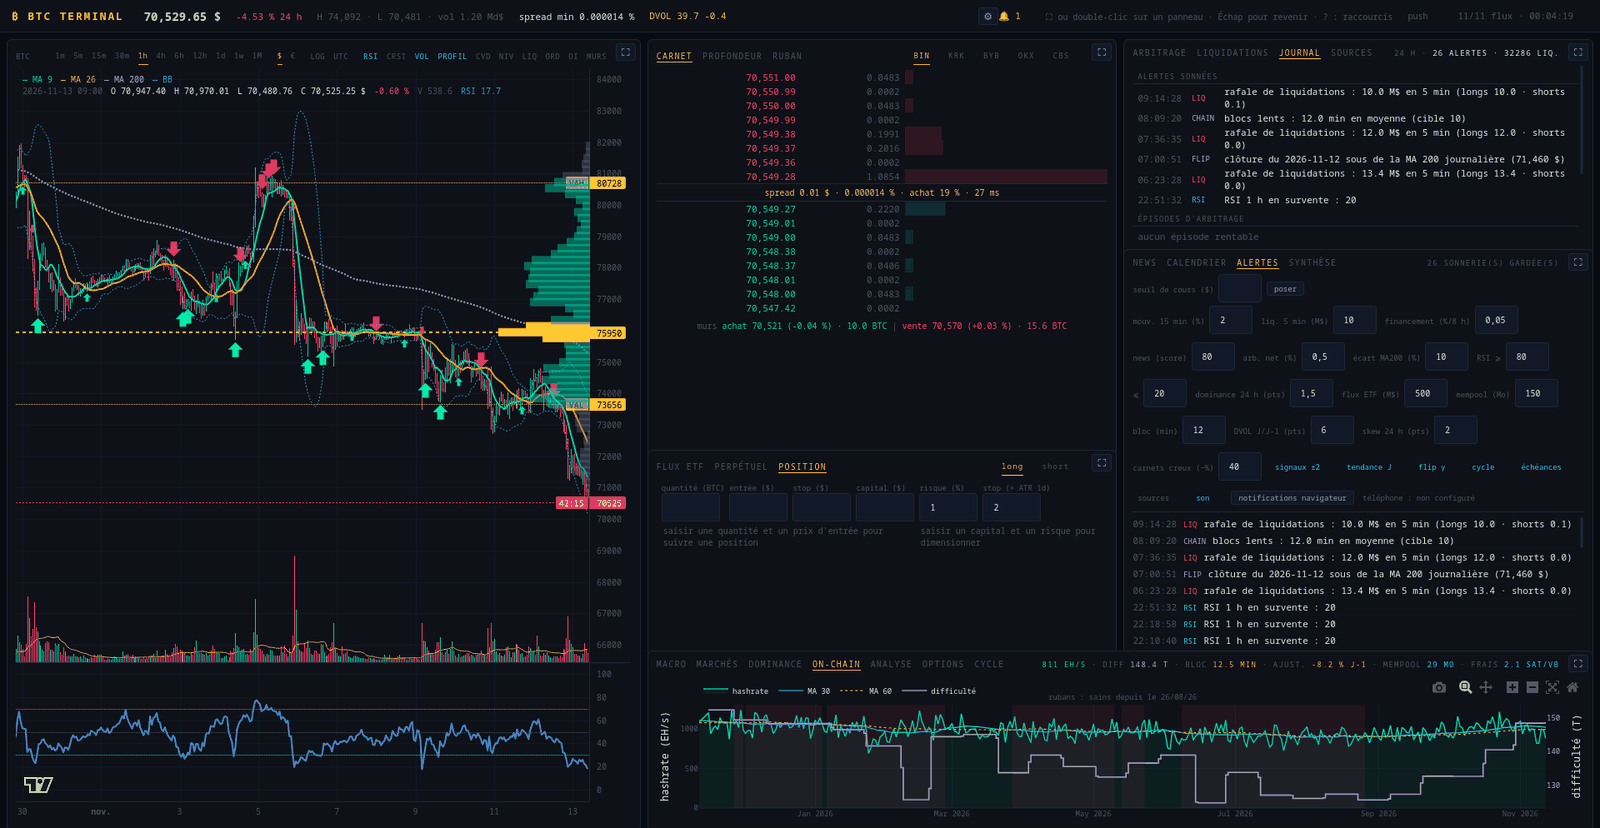
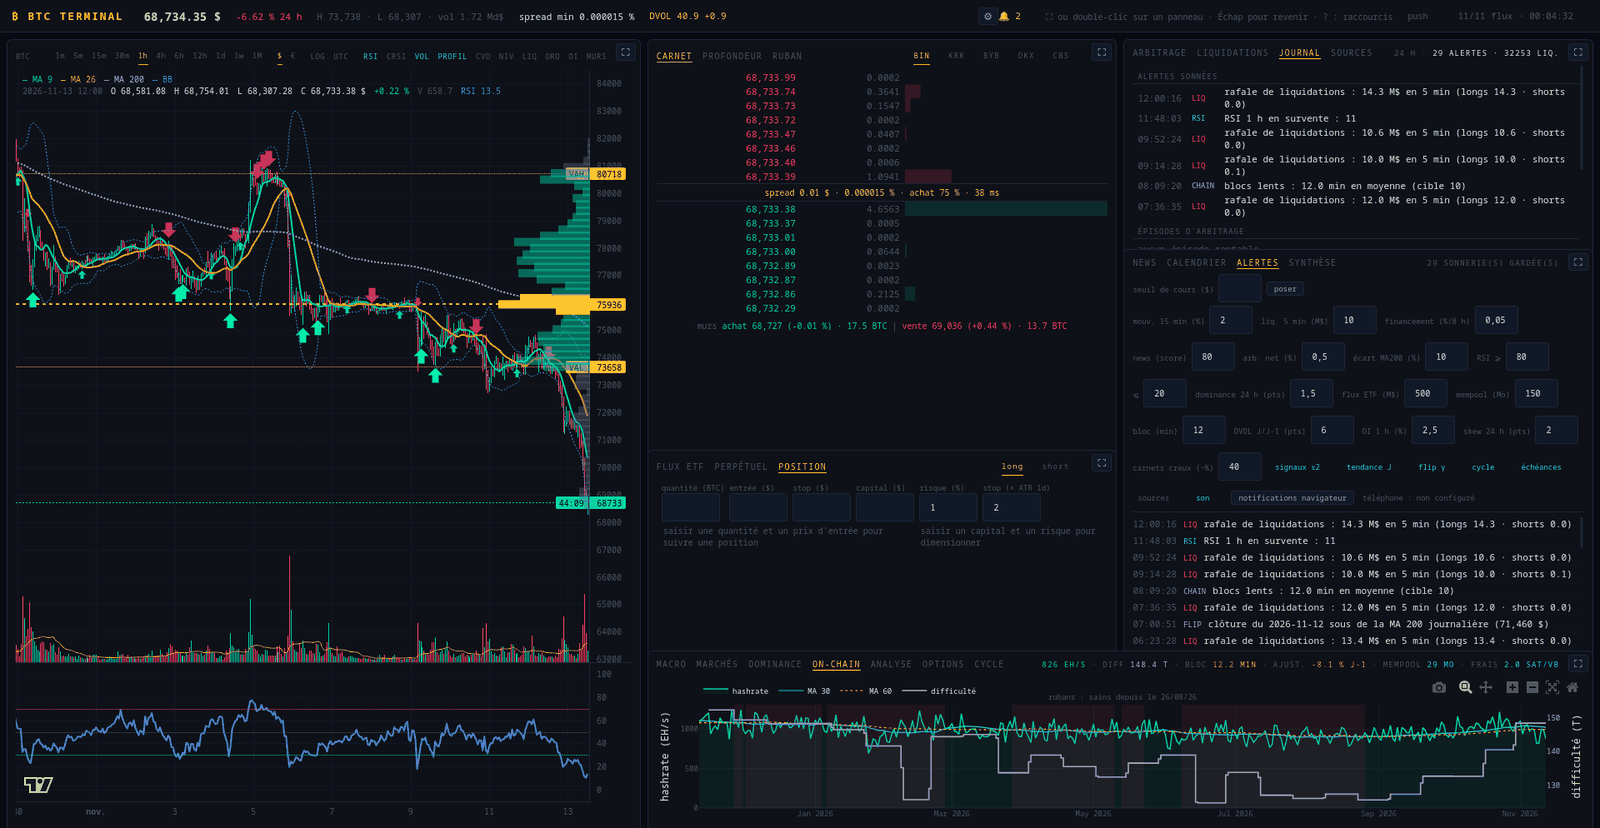
Une alerte quand l'open interest bouge de 2,5 % en une heure
L'open interest du perpétuel Binance, compté en bitcoins pour ne pas
suivre le cours, sur une heure de points à cinq minutes : 2,5 % font
cinq épisodes sur les trente jours que Binance garde. Le message dit
les chiffres, le cours de la même heure et la lecture usuelle du couple
— positions ouvertes à la hausse ou à la baisse, longs ou shorts qui
sortent. Réarmée sous les trois quarts du seuil, muette sur une série
trouée ; réglable au panneau ALERTES.

diff --git a/btcterm/alerts.py b/btcterm/alerts.py
@@ -19,6 +19,8 @@ connexion nouvelle :
 - **mouvement brusque** : le cours s'écarte de plus de 2 % de son plus
   haut ou de son plus bas du dernier quart d'heure — cinq fois par mois
   sur l'année écoulée ; réarmé sous les trois quarts du seuil ;
+- **open interest** : celui du perpétuel Binance varie de plus de 2,5 %
+  en une heure, compté en bitcoins — du levier qui s'empile ou qui sort ;
 - **rafale de liquidations** : le notionnel liquidé sur 5 minutes,
   toutes paires, dépasse le seuil configuré ;
 - **financement extrême** : |taux par 8 h| au-delà du seuil ;
@@ -162,6 +164,9 @@ DEFAULT_CONFIG: dict = {
     "block_minutes": 12.0,
     #: DVOL au-dessus de sa clôture de la veille, en points de volatilité.
     "dvol_jump_pts": 6.0,
+    #: open interest du perpétuel Binance, variation en % sur une heure,
+    #: compté en bitcoins (§ `_check_open_interest`).
+    "oi_change_pct": 2.5,
     #: déplacement du skew 25 delta à un mois sur 24 h, en points.
     "skew_shift_pts": 2.0,
     #: carnets creux : liquidité à tant de % sous sa moyenne de 24 h.
@@ -185,6 +190,17 @@ COOLDOWN = 600.0
 #: 1 % soixante-quatre.
 MOVE_WINDOW = 900.0
 MOVE_REARM = 0.75
+
+#: L'open interest se lit sur une heure de points à cinq minutes — treize
+#: points, le premier et le dernier compris —, et ne se réarme, comme le
+#: mouvement brusque, que retombé sous les trois quarts du seuil. Sur les
+#: trente jours que Binance garde (13 octobre – 13 novembre 2026), 2,5 % en
+#: une heure font cinq épisodes ; 2 % en feraient douze, 3 % deux. Un trou
+#: dans la série — plus de 70 minutes entre les deux bouts — la fait taire.
+OI_POINTS = 13
+OI_SPAN_MAX = 70 * 60
+#: Variation du cours en deçà de laquelle il est dit stable, en %.
+OI_FLAT_PRICE_PCT = 0.3
 
 #: Réarmement d'un seuil de prix : le cours doit s'écarter d'autant de
 #: l'autre côté du seuil avant que celui-ci puisse resonner.
@@ -260,7 +276,8 @@ def normalize_config(data) -> dict:
                 "arb_net_pct",
                 "ma200_gap_pct", "rsi_overbought", "rsi_oversold",
                 "dominance_shift_pts", "etf_flow_musd", "mempool_mb",
-                "block_minutes", "dvol_jump_pts", "skew_shift_pts",
+                "block_minutes", "dvol_jump_pts", "oi_change_pct",
+                "skew_shift_pts",
                 "liquidity_drop_pct"):
         value = data.get(key)
         if isinstance(value, (int, float)) and value > 0:
@@ -499,8 +516,9 @@ class AlertEngine:
                      self._check_gamma, self._check_cycle,
                      self._check_event, self._check_dominance,
                      self._check_etf, self._check_chain,
-                     self._check_volatility, self._check_skew,
-                     self._check_liquidity, self._check_sources):
+                     self._check_volatility, self._check_open_interest,
+                     self._check_skew, self._check_liquidity,
+                     self._check_sources):
             try:
                 rule(hub, opportunities, config, now)
             except Exception:
@@ -956,6 +974,70 @@ class AlertEngine:
             self._fire("vol",
                        f"volatilité implicite en hausse : DVOL {last:.1f}, "
                        f"{jump:+z.1f} points depuis la clôture d'hier", now)
+
+    def _check_open_interest(self, hub, _opps, config, now) -> None:
+        """L'open interest qui bouge vite : du levier qui s'empile, ou qui
+        sort.
+
+        Compté en bitcoins — en dollars, il suivrait le cours —, sur la
+        dernière heure de l'historique à cinq minutes de Binance. Le message
+        dit les chiffres, puis la lecture usuelle du couple qu'ils forment
+        avec le cours : un open interest qui monte quand le cours monte, ce
+        sont plutôt des positions ouvertes à la hausse ; quand il baisse, à
+        la baisse ; un open interest qui fond, des positions qui sortent —
+        les longs si le cours baisse, les shorts s'il monte. Une lecture, pas
+        un constat : chaque contrat a ses deux côtés, et le cours dit
+        seulement lequel s'est montré le plus pressé.
+        """
+        oi = hub.open_interest(period="5m", limit=OI_POINTS)
+        if oi is None or len(oi) < OI_POINTS or "oi" not in oi:
+            return
+        first, last = oi.iloc[-OI_POINTS], oi.iloc[-1]
+        span = (pd.Timestamp(last["time"])
+                - pd.Timestamp(first["time"])).total_seconds()
+        if not 0 < span <= OI_SPAN_MAX or not first["oi"] > 0:
+            return
+        change = last["oi"] / first["oi"] - 1
+        threshold = config["oi_change_pct"] / 100
+        if not self._edge("oi", abs(change) >= threshold, now,
+                          clear=abs(change) < threshold * MOVE_REARM):
+            return
+        price = self._price_change(hub, first["time"])
+        if price is None:
+            cours, lecture = "", ("le levier s'empile" if change > 0
+                                  else "le levier sort")
+        else:
+            cours = f", cours {price * 100:+z.1f} %"
+            if abs(price) * 100 < OI_FLAT_PRICE_PCT:
+                lecture = ("le levier s'empile, cours stable" if change > 0
+                           else "le levier sort, cours stable")
+            elif change > 0:
+                lecture = ("positions ouvertes à la hausse" if price > 0
+                           else "positions ouvertes à la baisse")
+            else:
+                lecture = ("les shorts sortent" if price > 0
+                           else "les longs sortent")
+        self._fire("oi",
+                   f"open interest {change * 100:+z.1f} % en 1 h "
+                   f"({first['oi']:,.0f} → {last['oi']:,.0f} BTC{cours}) "
+                   f": {lecture}", now)
+
+    @staticmethod
+    def _price_change(hub, since) -> Optional[float]:
+        """La variation du cours depuis `since`, sur les bougies de cinq
+        minutes ; `None` si elles manquent."""
+        try:
+            bars = hub.klines("5m", limit=24)
+        except Exception:
+            return None
+        if bars is None or bars.empty or bars.attrs.get("demo", False):
+            return None
+        times = pd.to_datetime(bars["time"])
+        before = bars.loc[times <= pd.Timestamp(since), "close"]
+        price = hub.reference_price() or float(bars["close"].iloc[-1])
+        if before.empty or not price:
+            return None
+        return price / float(before.iloc[-1]) - 1
 
     def _check_skew(self, hub, _opps, config, now) -> None:
         """Déplacement du skew 25 delta sur vingt-quatre heures.

diff --git a/tests/test_alerts.py b/tests/test_alerts.py
@@ -30,6 +30,7 @@ from types import SimpleNamespace
 sys.path.insert(0, str(Path(__file__).resolve().parent.parent))
 sys.path.insert(0, str(Path(__file__).resolve().parent))
 
+import numpy as np  # noqa: E402
 import pandas as pd  # noqa: E402
 
 from btcterm.alerts import (AlertEngine, COOLDOWN, DEFAULT_CONFIG,  # noqa: E402
@@ -329,6 +330,76 @@ def test_l_etat_se_sauve_depuis_plusieurs_fils():
         assert donnees["config"]["move_pct"] == 3.0
         assert not e._state_failed
     print("  ✓ quatre fils sauvent l'état ensemble, sans rien perdre")
+
+
+def test_open_interest_qui_bouge_vite():
+    """2,5 % d'open interest en une heure, en bitcoins : une sonnerie qui
+    dit les chiffres, le cours de la même heure et la lecture usuelle du
+    couple ; réarmée sous les trois quarts du seuil, muette sur une série
+    trouée."""
+    from btcterm.alerts import OI_POINTS
+
+    debut = pd.Timestamp("2026-11-13 04:00")
+
+    def serie(fin, depart=90_000.0, pas="5min"):
+        temps = pd.date_range(debut, periods=OI_POINTS, freq=pas)
+        valeurs = list(np.linspace(depart, fin, OI_POINTS))
+        return pd.DataFrame({"time": temps, "oi": valeurs,
+                             "oi_usd": [v * 70_000 for v in valeurs]})
+
+    def bougies(fin_cours, depart=70_000.0):
+        temps = pd.date_range(debut - pd.Timedelta("55min"), periods=24,
+                              freq="5min")
+        closes = [depart] * 12 + list(np.linspace(depart, fin_cours, 12))
+        return pd.DataFrame({"time": temps, "close": closes})
+
+    hub = FakeHub()
+    etat = {"oi": serie(92_700.0), "bars": bougies(70_700.0)}
+    hub.open_interest = lambda period="4h", limit=180: etat["oi"]
+    hub.klines = lambda interval="1h", limit=0: etat["bars"]
+    hub.price = None                      # le cours vient des bougies
+    e = engine()
+
+    def tour(t):
+        avant = len(e.alerts)
+        e._check_open_interest(hub, None, e.config, T0 + t)
+        return [a.message for a in list(e.alerts)[avant:]]
+
+    (hausse,) = tour(0)
+    assert hausse == ("open interest +3.0 % en 1 h (90,000 → 92,700 BTC, "
+                      "cours +1.0 %) : positions ouvertes à la hausse"), hausse
+    assert e.alerts[-1].kind == "oi"
+    assert tour(60) == [], "le même mouvement ne resonne pas"
+    etat["oi"] = serie(91_800.0)                      # +2,0 % : pas réarmé
+    assert tour(700) == []
+    etat["oi"] = serie(91_350.0)                      # +1,5 % : réarmé
+    assert tour(760) == []
+    etat["oi"] = serie(87_480.0)                      # −2,8 %
+    etat["bars"] = bougies(68_950.0)                  # −1,5 %
+    (baisse,) = tour(1400)
+    assert baisse.endswith("cours -1.5 %) : les longs sortent"), baisse
+
+    # Le cours immobile, et sans bougies du tout.
+    autre = engine()
+    etat["oi"] = serie(92_700.0)
+    etat["bars"] = bougies(70_100.0)                  # +0,14 %
+    autre._check_open_interest(hub, None, autre.config, T0)
+    assert autre.alerts[-1].message.endswith(
+        ": le levier s'empile, cours stable"), autre.alerts[-1].message
+    sans = engine()
+    etat["bars"] = pd.DataFrame(columns=["time", "close"])
+    sans._check_open_interest(hub, None, sans.config, T0)
+    assert sans.alerts[-1].message == (
+        "open interest +3.0 % en 1 h (90,000 → 92,700 BTC) : "
+        "le levier s'empile"), sans.alerts[-1].message
+
+    # Une série trouée — le portable a dormi — ou trop courte : silence.
+    for trouee in (serie(95_000.0, pas="10min"), serie(95_000.0).iloc[2:]):
+        muet = engine()
+        etat["oi"] = trouee
+        muet._check_open_interest(hub, None, muet.config, T0)
+        assert not muet.alerts
+    print("  ✓ open interest : chiffres, cours, lecture, hystérésis, trous")
 
 
 def test_l_hysteresis_du_front():

diff --git a/terminal/panels/alerts.py b/terminal/panels/alerts.py
@@ -47,7 +47,7 @@ KIND_COLORS = {"price": C["yellow"], "move": C["yellow"], "liq": C["red"],
                "rsi": C["cyan"], "signal": C["green"],
                "dominance": C["yellow"], "etf": C["green"],
                "chain": C["purple"], "vol": C["yellow"],
-               "skew": C["yellow"], "depth": C["cyan"],
+               "skew": C["yellow"], "depth": C["cyan"], "oi": C["orange"],
                "source": C["red"]}
 
 _INPUT = {
@@ -152,6 +152,10 @@ def layout(title=None):
                 _field("DVOL J/J-1 (pts)", dcc.Input(
                     id="alert-dvol", type="number", min=0.5, debounce=True,
                     value=config["dvol_jump_pts"], style=_INPUT)),
+                _field("OI 1 h (%)", dcc.Input(
+                    id="alert-oi", type="number", min=0.1, step="any",
+                    debounce=True, value=config["oi_change_pct"],
+                    style=_INPUT)),
                 _field("skew 24 h (pts)", dcc.Input(
                     id="alert-skew", type="number", min=0.1, step="any",
                     debounce=True, value=config["skew_shift_pts"],
@@ -317,6 +321,7 @@ def register(app, hub):
         Input("alert-mempool", "value"),
         Input("alert-block", "value"),
         Input("alert-dvol", "value"),
+        Input("alert-oi", "value"),
         Input("alert-skew", "value"),
         Input("alert-depth", "value"),
         Input("alert-signal", "value"),
@@ -332,7 +337,7 @@ def register(app, hub):
     )
     def _edit(_add, _dels, move, liq, funding, news_score, arb,
               ma200, rsi_hi, rsi_lo, dominance, etf, mempool, block,
-              dvol, skew, depth, signal, trend, gamma, cycle_shift, event,
+              dvol, oi, skew, depth, signal, trend, gamma, cycle_shift, event,
               sources_down, sound,
               level, stored):
         trigger = dash.ctx.triggered_id
@@ -375,6 +380,7 @@ def register(app, hub):
                       "dominance_shift_pts": dominance,
                       "etf_flow_musd": etf, "mempool_mb": mempool,
                       "block_minutes": block, "dvol_jump_pts": dvol,
+                      "oi_change_pct": oi,
                       "skew_shift_pts": skew,
                       "liquidity_drop_pct": depth,
                       "signal_strong": bool(signal),

diff --git a/btcterm/notify.py b/btcterm/notify.py
@@ -59,7 +59,7 @@ KIND_TAGS = {
     "flip": "chart_with_upwards_trend", "event": "calendar",
     "rsi": "thermometer", "signal": "triangular_flag_on_post",
     "dominance": "pie", "etf": "bank", "chain": "link", "vol": "zap",
-    "skew": "shield",
+    "skew": "shield", "oi": "bar_chart",
     "brief": "sunrise",
 }
 
@@ -72,7 +72,7 @@ KIND_TITLES = {
     "flip": "tendance journalière", "event": "échéance macro",
     "rsi": "RSI", "signal": "signal", "dominance": "dominance",
     "etf": "flux ETF", "chain": "réseau", "vol": "volatilité implicite",
-    "skew": "skew des options",
+    "skew": "skew des options", "oi": "open interest",
     "brief": "synthèse du matin",
 }
 

diff --git a/README.md b/README.md
@@ -116,7 +116,7 @@ de la synthèse du matin suivent celle du serveur. Le bandeau affiche
 | **News** | fil scoré + indice Fear & Greed, dont la courbe sur 90 jours en plein écran | 2 s en lecture, collecte toutes les 15 min |
 | **Synthèse** | les dernières 24 h en une page : cours et journée glissante, financement et open interest et leur écart, liquidations et gros ordres journalisés, flux ETF (et en bitcoins, face à l'émission), Fear & Greed, DVOL et son rang sur un an, skew, exposition gamma et gamma flip, mouvement attendu, prime Coinbase, prime coréenne, dominance, cycle (halving, sommet, Mayer, MVRV, Puell quand il sort de sa bande), agenda — échéances macro, publications américaines de la semaine, échéances d'options —, alertes sonnées, news les mieux notées ; la couverture du journal dite en tête quand la machine a dormi (onglet des news) | 5 min |
 | **Calendrier** | prochaines échéances macro — FOMC, CPI, NFP, PCE —, grosses échéances d'options Deribit (montant, max pain, put/call) et publications américaines de la semaine selon Forex Factory (PPI, ventes au détail, inscriptions au chômage, discours de la Fed ; prévision et précédent), avec compte à rebours (onglet des news) | 5 min |
-| **Alertes** | sonneries et réglages : seuils de cours, mouvement brusque (2 % en 15 min), rafale de liquidations, financement extrême, news à fort score, écart d'arbitrage, écart à la MA 200, RSI extrême, signal gradué fort, clôture journalière de part et d'autre de la MA 200, franchissement du gamma flip des options, bascules du cycle (MVRV en zone extrême, capitulation des mineurs), échéance macro dans la demi-heure, glissement de dominance, jour de flux ETF, réseau chargé, bond de la volatilité implicite, déplacement du skew (onglet des news) | 2 s |
+| **Alertes** | sonneries et réglages : seuils de cours, mouvement brusque (2 % en 15 min), rafale de liquidations, financement extrême, news à fort score, écart d'arbitrage, écart à la MA 200, RSI extrême, signal gradué fort, clôture journalière de part et d'autre de la MA 200, franchissement du gamma flip des options, bascules du cycle (MVRV en zone extrême, capitulation des mineurs), échéance macro dans la demi-heure, glissement de dominance, jour de flux ETF, réseau chargé, bond de la volatilité implicite, open interest qui bouge de 2,5 % en une heure, déplacement du skew (onglet des news) | 2 s |
 | **Macro** | cours contre masse monétaire M2 (US) ou contre l'offre de stablecoins (`STB`), décalage réglable et corrélations | 5 min |
 | **Analyse** | tendance, écart à la MA 200, RSI, ATR et dernier signal de 15m à 1w ; au choix, bilan des signaux contre une référence, règles simples face à la détention, frais compris, carte des rendements mensuels, ou carte des heures — l'amplitude moyenne par jour et par heure sur un an, quand le bitcoin bouge ; export CSV (onglet de la macro) | 30 s |
 | **Dominance** | parts de capitalisation et leur tendance journalisée — hors actifs que la source compte par intermittence —, cap totale et volume 24 h (onglet de la macro) | 5 min |
@@ -388,8 +388,9 @@ python -m terminal.app --no-journal              # s'en passer
 pas : seuils de cours posés depuis le panneau ALERTES (le sens — au-dessus,
 au-dessous — est figé à la pose, avec hystérésis de réarmement), mouvement
 brusque (2 % depuis le plus haut ou le plus bas du dernier quart d'heure —
-cinq fois par mois sur l'année écoulée), rafale de liquidations, financement
-extrême, news à fort score, écart d'arbitrage —
+cinq fois par mois sur l'année écoulée), open interest qui bouge de 2,5 % en
+une heure (compté en bitcoins, le message dit le cours de la même heure et la
+lecture usuelle du couple), rafale de liquidations, financement extrême, news à fort score, écart d'arbitrage —
 plus trois règles relatives lues sur la bougie horaire close : écart du
 cours à sa MA 200, RSI hors bornes, signal gradué fort (±2), muettes sur la
 série de démonstration hors ligne — une neuvième assise sur l'historique

diff --git a/ARCHITECTURE.md b/ARCHITECTURE.md
@@ -871,7 +871,7 @@ de l'open interest compris.
 
 Douze panneaux qu'il faut balayer des yeux couvraient la surveillance
 active ; la passive demande l'inverse — que le terminal prévienne.
-`AlertEngine` évalue vingt règles dans la boucle d'observation du hub
+`AlertEngine` évalue vingt et une règles dans la boucle d'observation du hub
 (1 s), toutes nourries par ce que le hub tient déjà, sans aucune
 connexion nouvelle :
 
@@ -896,6 +896,19 @@ connexion nouvelle :
   argument `clear`, qui dit quand une règle se réarme ; sans lui, rien ne
   change pour les autres. Elle n'existait pas avant le 13 novembre 2026 :
   la rafale de liquidations en tenait lieu, de loin ;
+- **open interest** — celui du perpétuel Binance varie de plus de 2,5 %
+  (`oi_change_pct`) en une heure, compté en bitcoins : en dollars, il
+  suivrait le cours. La règle lit l'historique à cinq minutes de Binance
+  (`OI_POINTS`, treize points), se tait sur une série trouée — plus de
+  70 minutes entre les deux bouts —, et se réarme comme le mouvement
+  brusque, sous les trois quarts du seuil. Sur les trente jours que Binance
+  garde (13 octobre – 13 novembre 2026), 2,5 % font cinq épisodes, 2 % douze,
+  3 % deux. Le message dit les chiffres, le cours de la même heure, puis la
+  lecture usuelle du couple : « open interest +3.0 % en 1 h (90,000 → 92,700
+  BTC, cours +1.0 %) : positions ouvertes à la hausse » ; à la baisse si le
+  cours baisse, « les longs sortent » ou « les shorts sortent » quand
+  l'open interest fond, « cours stable » sous 0,3 %. Une lecture, pas un
+  constat — chaque contrat a ses deux côtés —, d'où les chiffres d'abord ;
 - **rafale de liquidations** — notionnel liquidé sur 5 minutes au-delà
   du seuil, lu dans les totaux du fil par pas de dix secondes (§2.5) — la
   fenêtre de 500 événements dont il se contentait jusqu'au 13 novembre 2026
